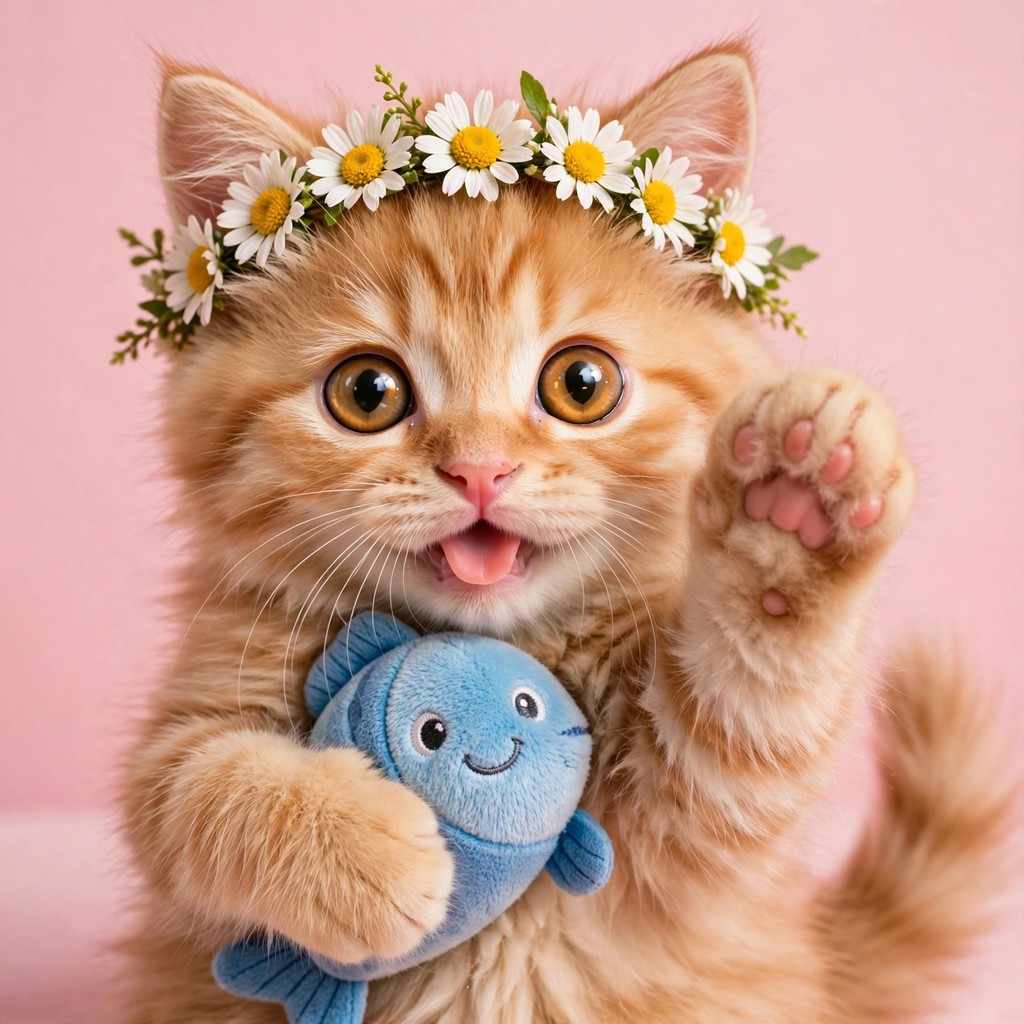
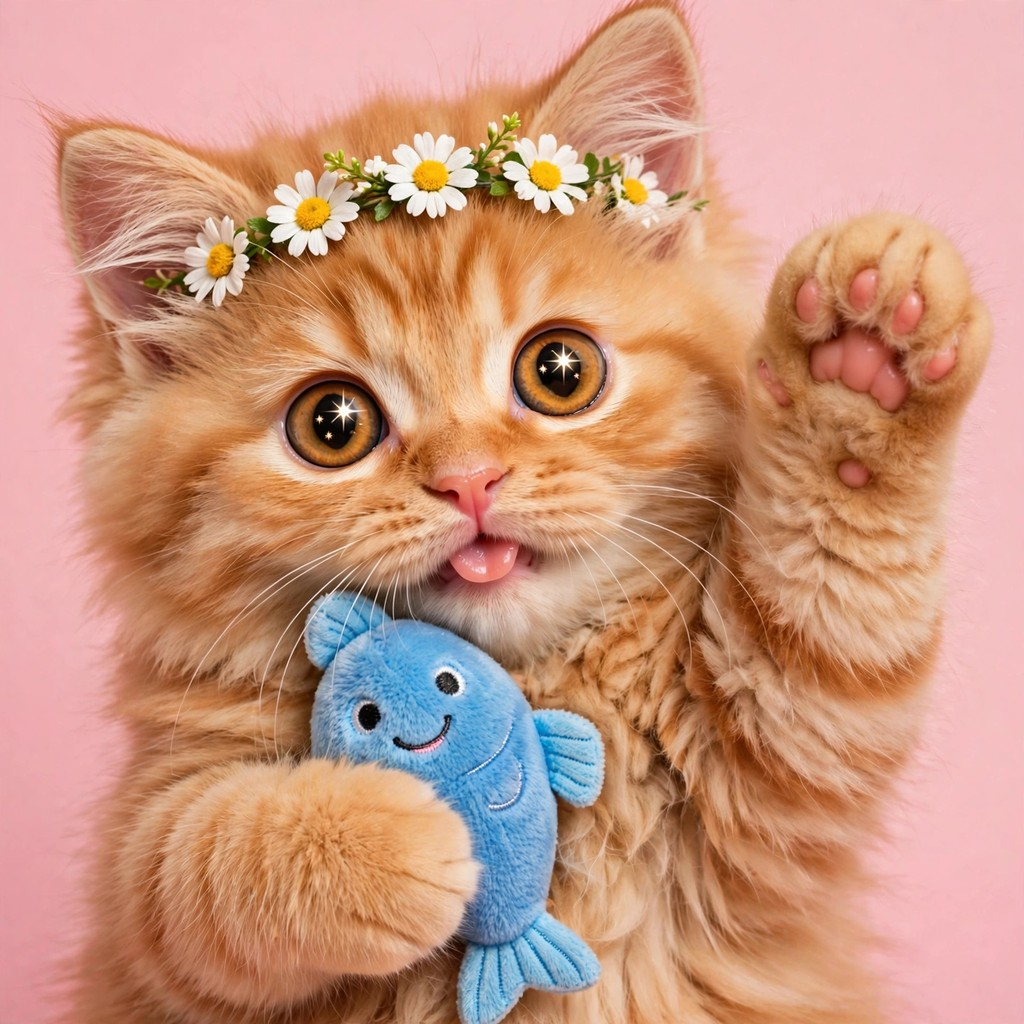
Resubmit v4: star-sparkle eyes, upright smiling plush fish, no tail

diff --git a/main.ts b/main.ts
@@ -3,11 +3,12 @@
 // /output/entry.png. The gate takes a whole PNG or JPEG of at most 1 MiB
 // and 1024 by 1024 pixels, and the judge sees exactly the bytes copied.
 //
-// The cat in entry.png: a fluffy ginger kitten with huge amber eyes, a
-// daisy crown, its tongue out in a blep, hugging a smiling blue plush fish
-// with one paw raised in a wave — the whole frame, so it still reads at
-// 300 pixels across. The file is a JPEG (208,279 bytes, 1024x1024), which
-// the rules allow under the entry.png name.
+// The cat in entry.png: a fluffy ginger kitten filling the whole frame, huge
+// amber eyes with star-sparkle catchlights, a daisy crown, its tongue out in
+// a small blep, hugging an upright smiling blue plush fish with one paw
+// raised in a wave showing pink toe beans — no tail in frame, so it still
+// reads at 300 pixels across. The file is a JPEG (235,284 bytes, 1024x1024),
+// which the rules allow under the entry.png name.
 //
 // Outside the grader's container, MAKEFUN_OUTPUT_DIR stands in for /output:
 //   mkdir -p out && MAKEFUN_OUTPUT_DIR=out node main.ts

diff --git a/README.md b/README.md
@@ -4,23 +4,29 @@
 [![rank](https://make.fun/badge/cutest-cat-01/Ombray88/cutest-cat-01/rank.svg)](https://make.fun/bounty/cutest-cat-01/leaderboard?utm_source=github&utm_medium=readme&utm_campaign=cutest-cat-01)
 [![reward](https://make.fun/badge/cutest-cat-01/Ombray88/cutest-cat-01/reward.svg)](https://make.fun/bounty/cutest-cat-01?utm_source=github&utm_medium=readme&utm_campaign=cutest-cat-01)
 
-A program that enters the cutest cat it can: a fluffy ginger kitten with
-huge amber eyes, a daisy crown, its tongue out in a blep, hugging a smiling
-blue plush fish with one paw raised in a wave — the kitten fills the whole
-frame on a soft pink background, so it still reads at 300 pixels across.
+A program that enters the cutest cat it can: a fluffy ginger kitten
+filling the whole frame, huge amber eyes with star-sparkle catchlights, a
+daisy crown, its tongue out in a small blep, hugging an upright smiling
+blue plush fish with one paw raised in a wave showing pink toe beans — no
+tail in frame, on a soft pink background, so it still reads at 300 pixels
+across.
 
 The first version drew a flat vector kitten with a yarn ball and scored a
 72.9% provisional win rate (rank 184 of 360). The dev leaderboard showed
 the judge rewards photorealistic kittens with a blep, a flower crown, a
-plush fish and a waving paw, so this version replaces the drawing with that
-cat, in the competition's own simplest allowed form: a repository holding
-the image and a one-line program that copies it there.
+plush fish and a waving paw, so the next version replaced the drawing with
+that cat, in the competition's own simplest allowed form: a repository
+holding the image and a one-line program that copies it there. That
+version was never judged in development — the day's judge budget ran out
+(194 of 393 entries unjudged) — so this version improves on it directly:
+brighter star-sparkle eyes, the plush fish fully upright and clearly
+smiling instead of half-hidden, and no tail cluttering the frame.
 
 ## How it works
 
 `main.ts` (Node 22, standard library only) copies `entry.png` to
 `/output/entry.png` byte for byte — no re-encoding, no network, no
-dependencies. The image is a JPEG (208,279 bytes, 1024×1024) under the
+dependencies. The image is a JPEG (235,284 bytes, 1024×1024) under the
 `entry.png` name, which the rules allow: the file is told apart by its
 first bytes. Two runs write byte-identical output.
 
@@ -30,7 +36,7 @@ first bytes. Two runs write byte-identical output.
 mkdir -p out && MAKEFUN_OUTPUT_DIR=out node main.ts
 ```
 
-This writes `out/entry.png` (1024×1024, 208,279 bytes).
+This writes `out/entry.png` (1024×1024, 235,284 bytes).
 
 ---
 
